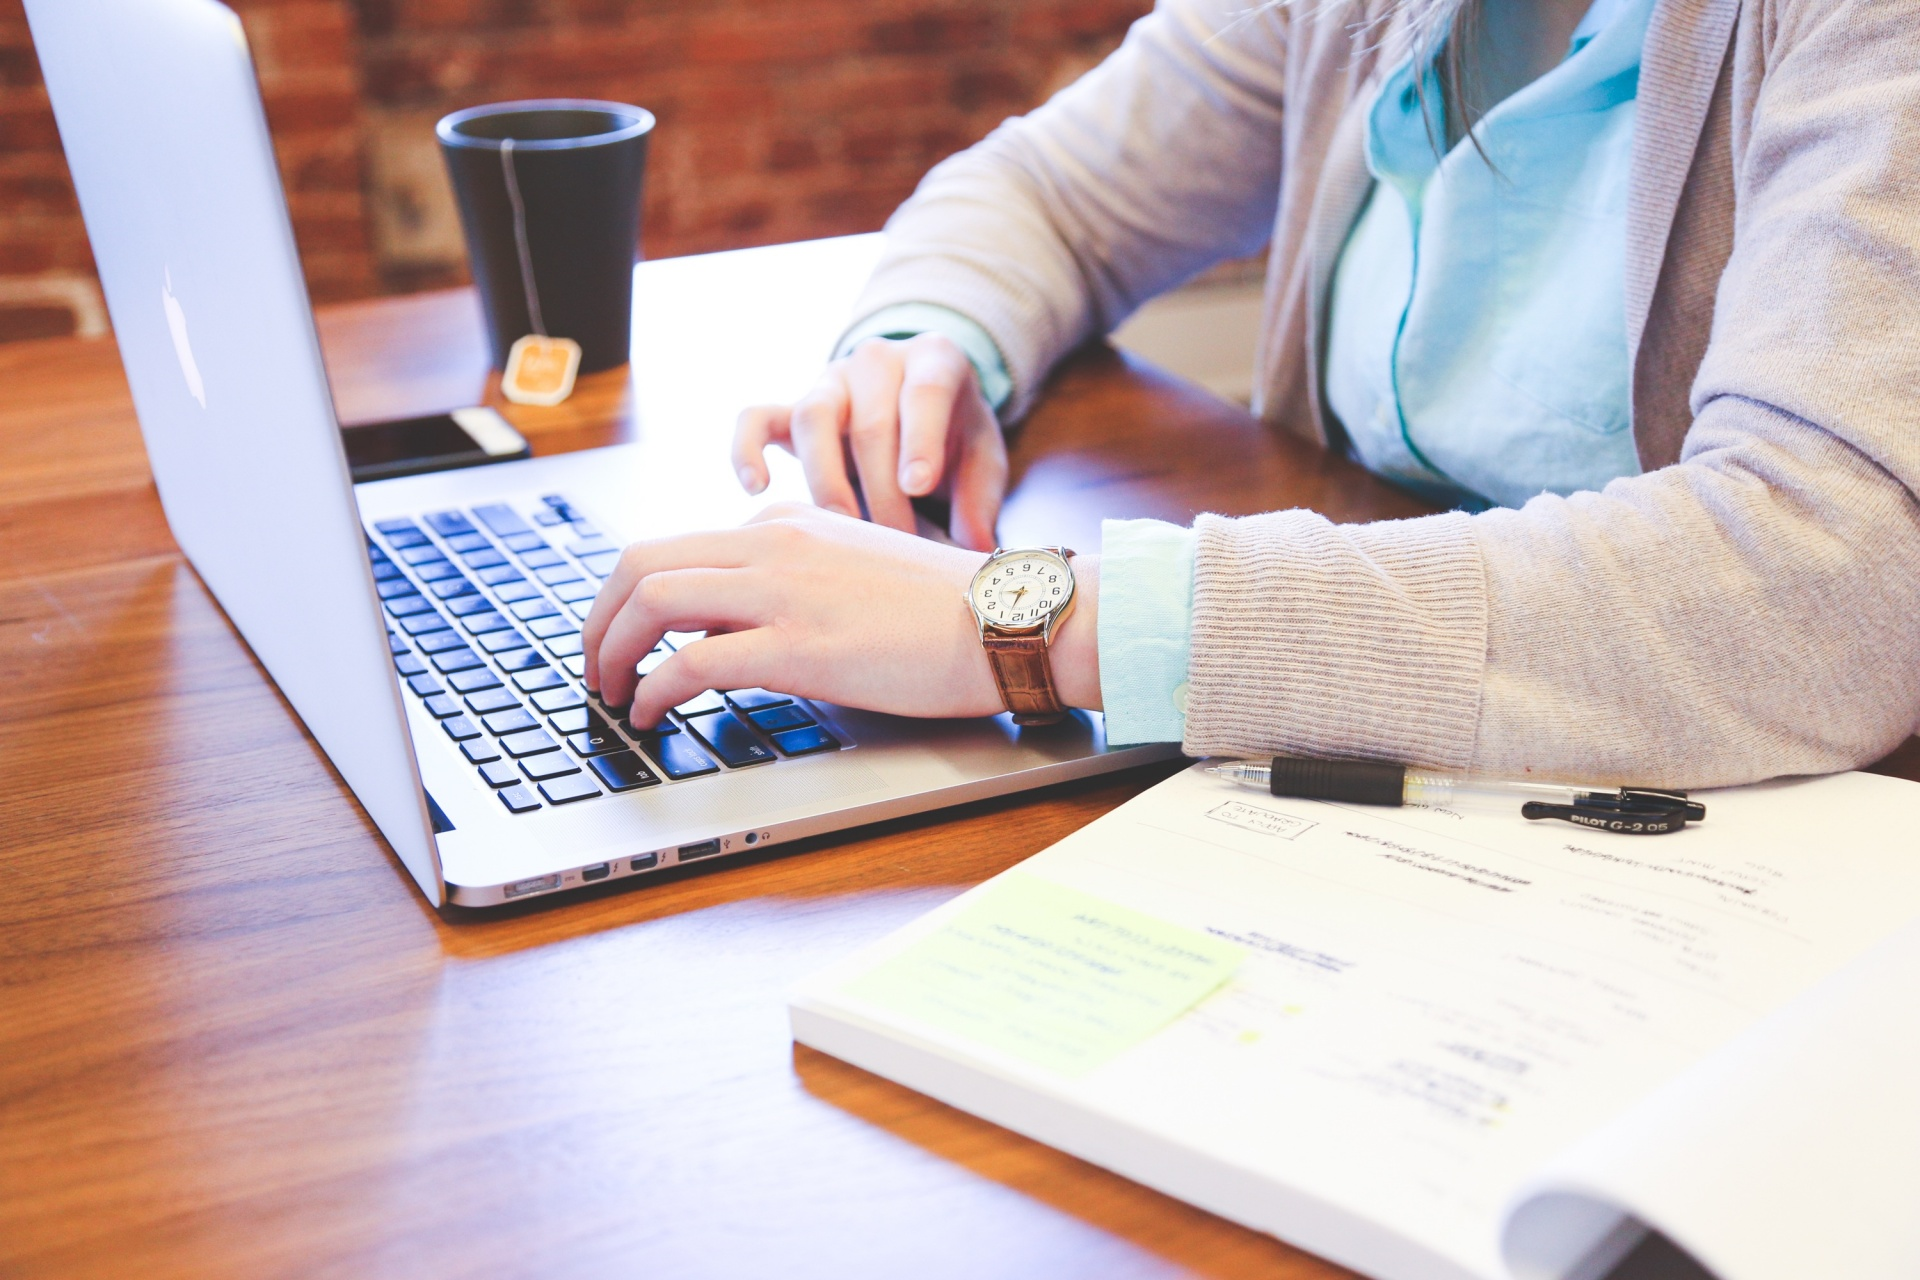
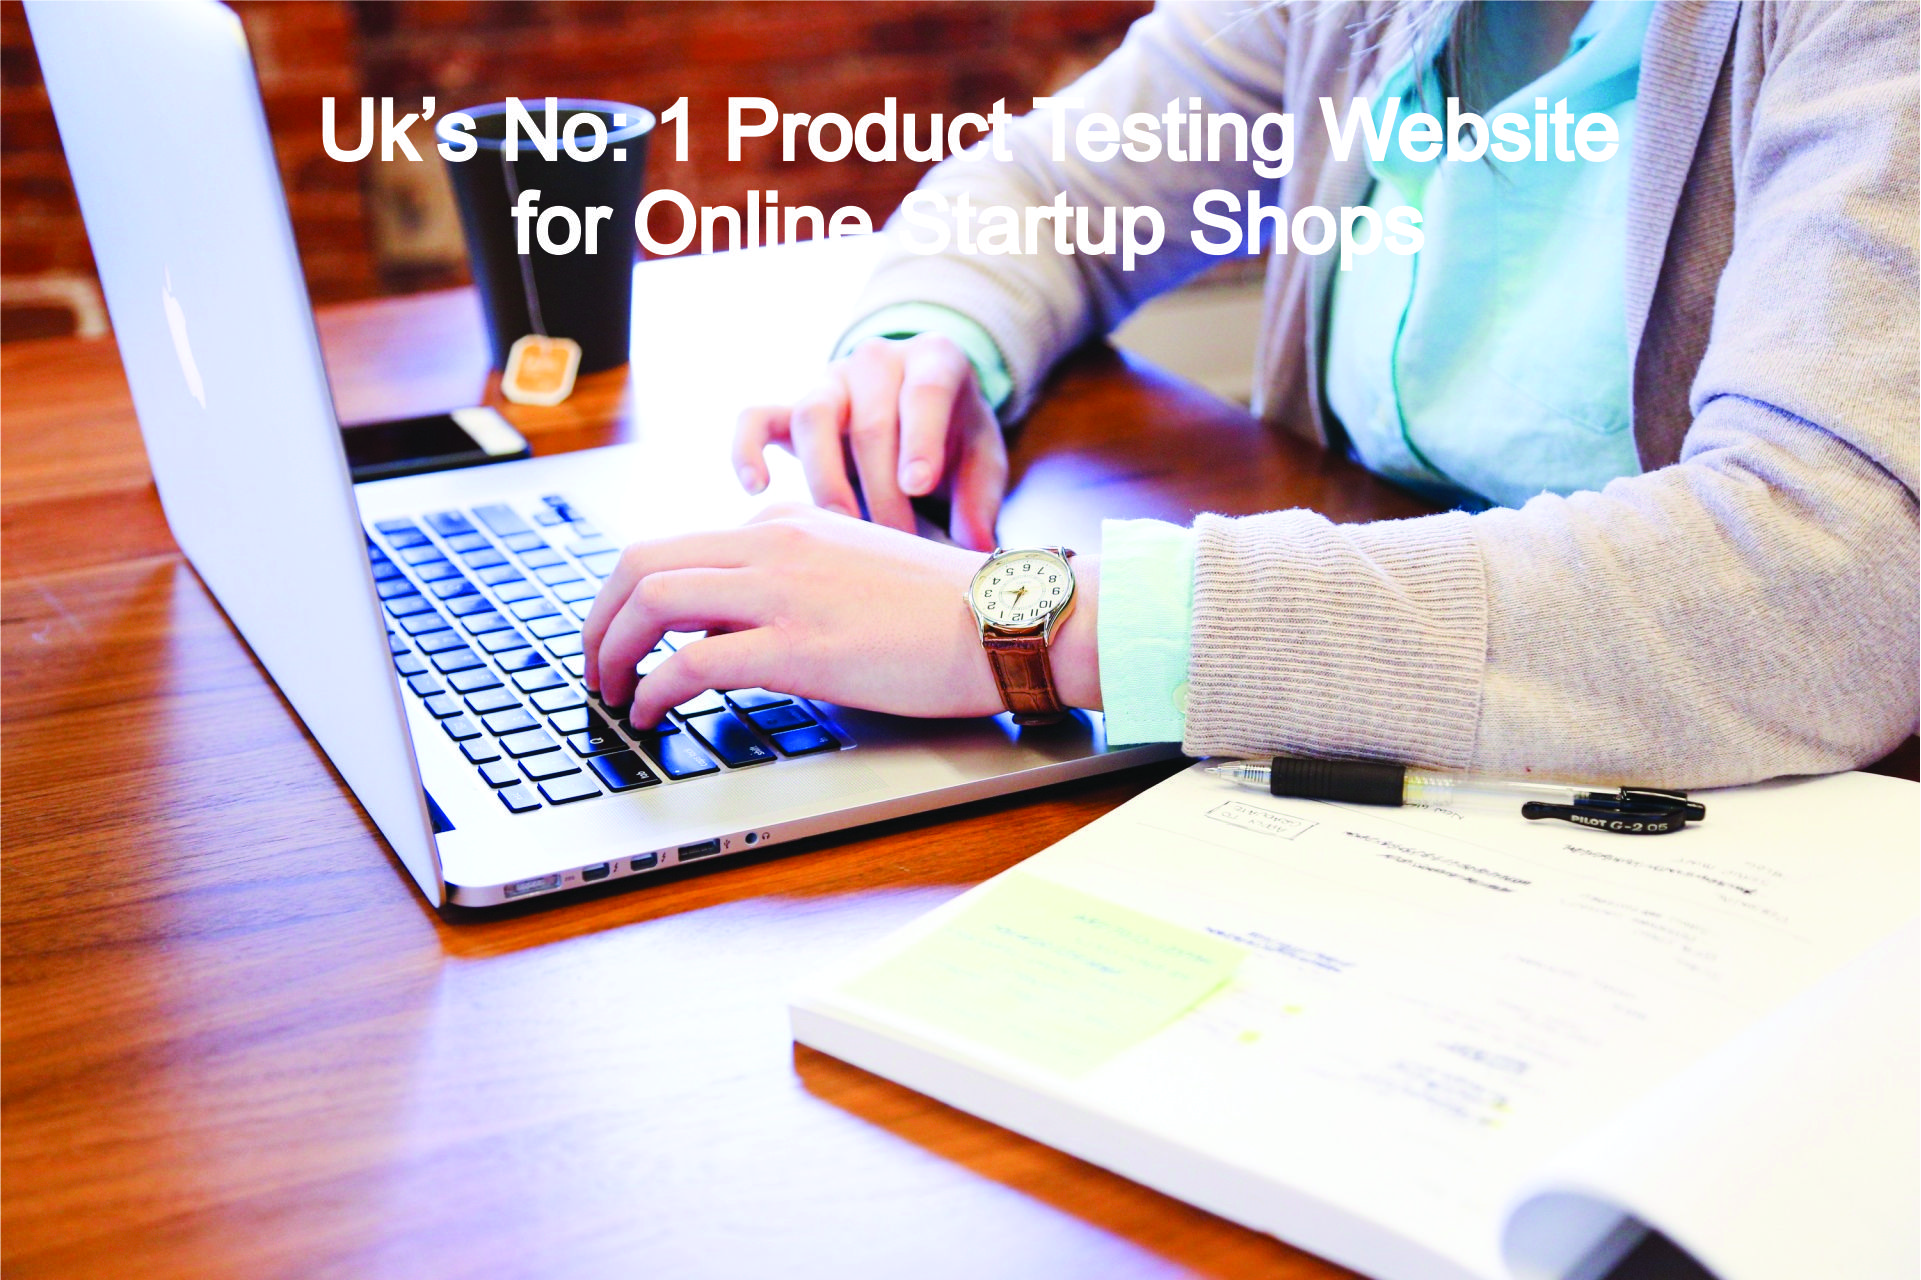
ss

diff --git a/Quest1/index.html b/Quest1/index.html
@@ -81,7 +81,7 @@
 
             <!--start column-->
             <div class="col-xs-12 col-md-8 col-lg-8 text-center article1a" id="article1a">
-                <h1><strong>UK's No:1 Product Testing Website <br> for Online Startup Shops</strong></h1>
+                <img src="femme.jpg" alt="home-page image" class="img-responsive" id="article1aimg"/>
 
             </div>
             <!-- end column-->

diff --git a/Quest1/q1style.css b/Quest1/q1style.css
@@ -23,7 +23,7 @@
     padding-left:100px;
 }
 
-.article1a{
+/*.article1a{
     background-image:url(femme.jpg);
     height:500px;
     border: 3px solid #ddd;
@@ -33,6 +33,10 @@
     background-position:center;
     margin:0;
     padding:0;
+}*/
+
+#article1aimg{
+
 }
 
 #article1a h1{

diff --git a/Quest1/styles.html b/Quest1/styles.html
@@ -483,7 +483,7 @@ h1{
     height:400px;
     border: 1px solid #ddd;
     border-radius:10px;
-    background-image:url(femme.jpg);
+    background-image:url(femme1.jpg);
     background-attachment: inherit;
     background-size:100% 100%;
     background-position: center center;
